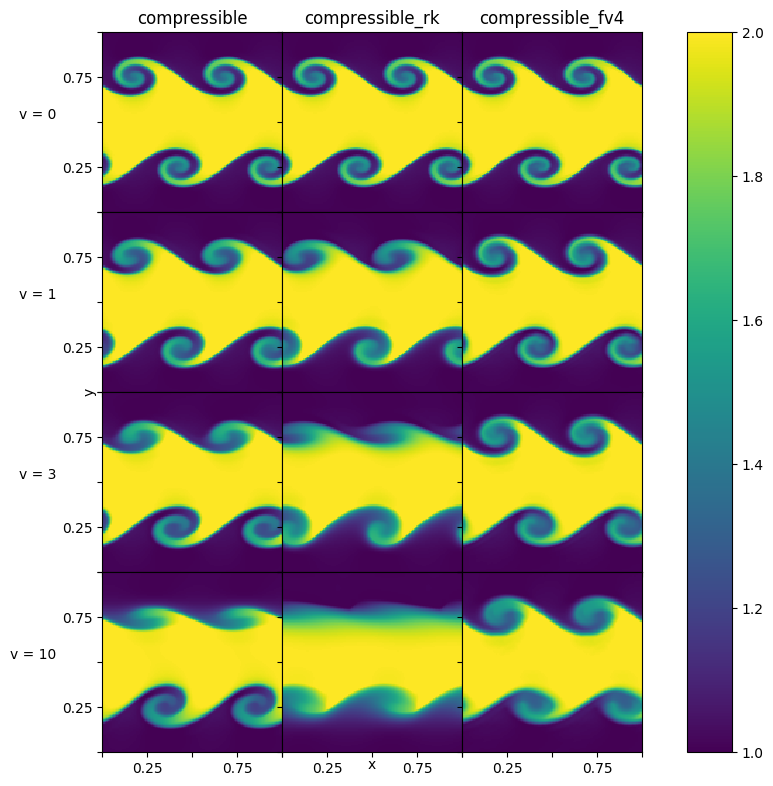
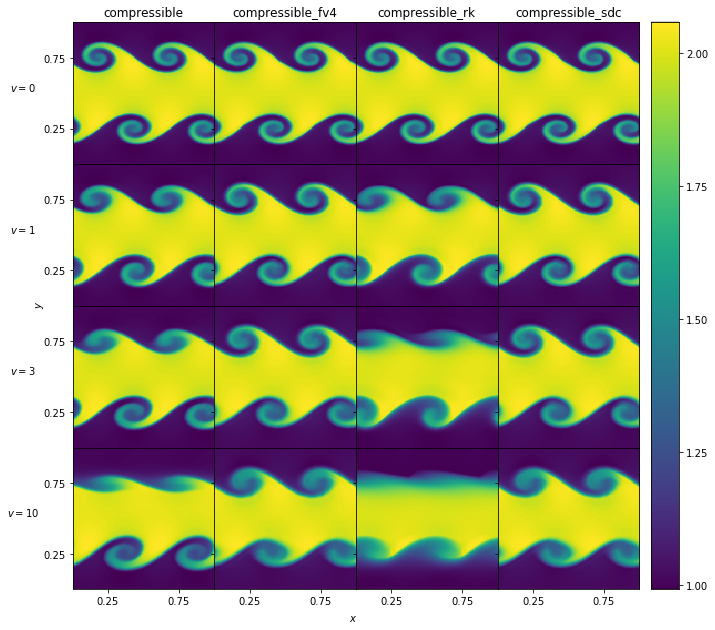
Minor fixes to docs formatting, added sdc to compressible solver comparisons

diff --git a/docs/source/compressible_compare.rst b/docs/source/compressible_compare.rst
@@ -15,10 +15,11 @@ The image below shows the KH problem initialized with McNally's test. It ran on 
   ./pyro.py compressible kh inputs.kh kh.vbulk=0
   ./pyro.py compressible_rk kh inputs.kh kh.vbulk=0
   ./pyro.py compressible_fv4 kh inputs.kh kh.vbulk=0
+  ./pyro.py compressible_sdc kh inputs.kh kh.vbulk=0
 
 .. image:: ./solver_comparisons/kh.png
    :align: center
-	     
+
 
 We vary the velocity in the positive y-direction (vbulk) to see how effective the solvers are at preserving the initial shape.
 
@@ -28,20 +29,24 @@ Sedov
 The Sedov problem ran on a 128 x 128 grid, with gamma = 1.4, and until t = 0.1, which can be run as:
 
 .. code-block:: none
-  
+
    ./pyro.py compressible sedov inputs.sedov
    ./pyro.py compressible_rk sedov inputs.sedov
    ./pyro.py compressible_fv4 sedov inputs.sedov
+   ./pyro.py compressible_sdc sedov inputs.sedov
 
 .. image:: ./solver_comparisons/sedov.png
    :align: center
-	
+
 .. image:: ./solver_comparisons/sedov_rk.png
    :align: center
-	   
+
 .. image:: ./solver_comparisons/sedov_fv4.png
    :align: center
-	   
+
+.. image:: ./solver_comparisons/sedov_sdc.png
+   :align: center
+
 Quad
 ^^^^
 The quad problem ran on a 256 x 256 grid until t = 0.8, which can be run as:
@@ -51,17 +56,21 @@ The quad problem ran on a 256 x 256 grid until t = 0.8, which can be run as:
    ./pyro.py compressible quad inputs.quad
    ./pyro.py compressible_rk quad inputs.quad
    ./pyro.py compressible_fv4 quad inputs.quad
+   ./pyro.py compressible_sdc quad inputs.quad
 
 .. image:: ./solver_comparisons/quad.png
    :align: center
-	
+
 .. image:: ./solver_comparisons/quad_rk.png
    :align: center
 
 .. image:: ./solver_comparisons/quad_fv4.png
    :align: center
-	      
-   
+
+.. image:: ./solver_comparisons/quad_sdc.png
+   :align: center
+
+
 Bubble
 ^^^^^^
 The bubble problem ran on a 128 x 256 grid until t = 3.0, which can be run as:
@@ -71,6 +80,7 @@ The bubble problem ran on a 128 x 256 grid until t = 3.0, which can be run as:
    ./pyro.py compressible bubble inputs.bubble
    ./pyro.py compressible_rk bubble inputs.bubble
    ./pyro.py compressible_fv4 bubble inputs.bubble
+   ./pyro.py compressible_sdc bubble inputs.bubble
 
 .. image:: ./solver_comparisons/bubble.png
    :align: center
@@ -79,6 +89,9 @@ The bubble problem ran on a 128 x 256 grid until t = 3.0, which can be run as:
    :align: center
 
 .. image:: ./solver_comparisons/bubble_fv4.png
+   :align: center
+
+.. image:: ./solver_comparisons/bubble_sdc.png
    :align: center
 
 
@@ -91,12 +104,16 @@ The Rayleigh-Taylor problem ran on a 64 x 192 grid until t = 3.0, which can be r
    ./pyro.py compressible rt inputs.rt
    ./pyro.py compressible_rk rt inputs.rt
    ./pyro.py compressible_fv4 rt inputs.rt
+   ./pyro.py compressible_sdc rt inputs.rt
 
 .. image:: ./solver_comparisons/rt.png
    :align: center
 
 .. image:: ./solver_comparisons/rt_rk.png
    :align: center
-		      
+
 .. image:: ./solver_comparisons/rt_fv4.png
+   :align: center
+
+.. image:: ./solver_comparisons/rt_sdc.png
    :align: center

diff --git a/docs/source/design.rst b/docs/source/design.rst
@@ -43,13 +43,13 @@ The overall structure is:
 * ``advection_fv4/``: The fourth-order accurate finite-volume advection
   solver that uses RK4 time integration.
 
-    * ``problems/``: The problem setups for the fourth-order advection solver.
-    * ``tests/``: Reference advection output files for comparison and regression testing.
+  * ``problems/``: The problem setups for the fourth-order advection solver.
+  * ``tests/``: Reference advection output files for comparison and regression testing.
 
 * ``advection_nonuniform/``: The solver for advection with a non-uniform velocity field.
 
-    * ``problems/``: The problem setups for the non-uniform advection solver.
-    * ``tests/``: Reference advection output files for comparison and regression testing.
+  * ``problems/``: The problem setups for the non-uniform advection solver.
+  * ``tests/``: Reference advection output files for comparison and regression testing.
 
 * ``advection_rk/``: The linear advection equation solver using the
   method-of-lines approach.
@@ -65,8 +65,8 @@ The overall structure is:
 * ``analysis/``: Various analysis scripts for processing pyro output files.
 
 * ``compressible/``: The fourth-order accurate finite-volume compressible
-   hydro solver that uses RK4 time integration.  This is built from the
-   method of McCourquodale and Colella (2011).
+  hydro solver that uses RK4 time integration.  This is built from the
+  method of McCourquodale and Colella (2011).
 
   * ``problems/``: The problem setups for the fourth-order compressible hydrodynamics solver.
   * ``tests/``: Reference compressible hydro output for regression testing.
@@ -83,7 +83,7 @@ The overall structure is:
   * ``tests/``: Reference compressible hydro output for regression testing.
 
 * ``compressible_sdc/``: The fourth-order compressible solver,
-using spectral-deferred correction (SDC) for the time integration.
+  using spectral-deferred correction (SDC) for the time integration.
 
   * ``problems/``: This is a symbolic link to the compressible/problems/ directory.
   * ``tests/``: Reference compressible hydro output for regression testing.

diff --git a/docs/source/running.rst b/docs/source/running.rst
@@ -50,7 +50,7 @@ Pyro class
 ----------
 
 Alternatively, pyro can be run using the :func:`Pyro <pyro.Pyro>` class. This provides
-an interface that enables simulations to be set up and run in a Jupyter notebook - see
+an interface that enables simulations to be set up and run in a Jupyter notebook -- see
 ``examples/examples.ipynb`` for an example notebook. A simulation can be set up and run
 by carrying out the following steps:
 
@@ -72,8 +72,8 @@ Instead of using an inputs file to define the problem parameters, we can define 
 dictionary of parameters and pass them into the :func:`initialize_problem
 <pyro.Pyro.initialize_problem>` function using the keyword argument ``inputs_dict``.
 If an inputs file is also passed into the function, the parameters in the dictionary
- will override any parameters in the file. For example, if we wished to turn off
- visualization for the previous example, we would do:
+will override any parameters in the file. For example, if we wished to turn off
+visualization for the previous example, we would do:
 
 .. code-block:: python
 

diff --git a/docs/source/compressible_basics.rst b/docs/source/compressible_basics.rst
@@ -24,8 +24,8 @@ pyro has several compressible solvers:
 * :py:mod:`compressible_fv4` uses a 4th order accurate method with RK4
   time integration
 
-* :py:mod:`compressible_sdc` uses fourth-order compressible solver,
-  with spectral-deferred correction (SDC) for the time integration.
+* :py:mod:`compressible_sdc` uses a 4th order accurate method
+  with spectral-deferred correction (SDC) for the time integration
 
 The implementations here have flattening at shocks, artificial
 viscosity, a simple gamma-law equation of state, and (in some cases) a
